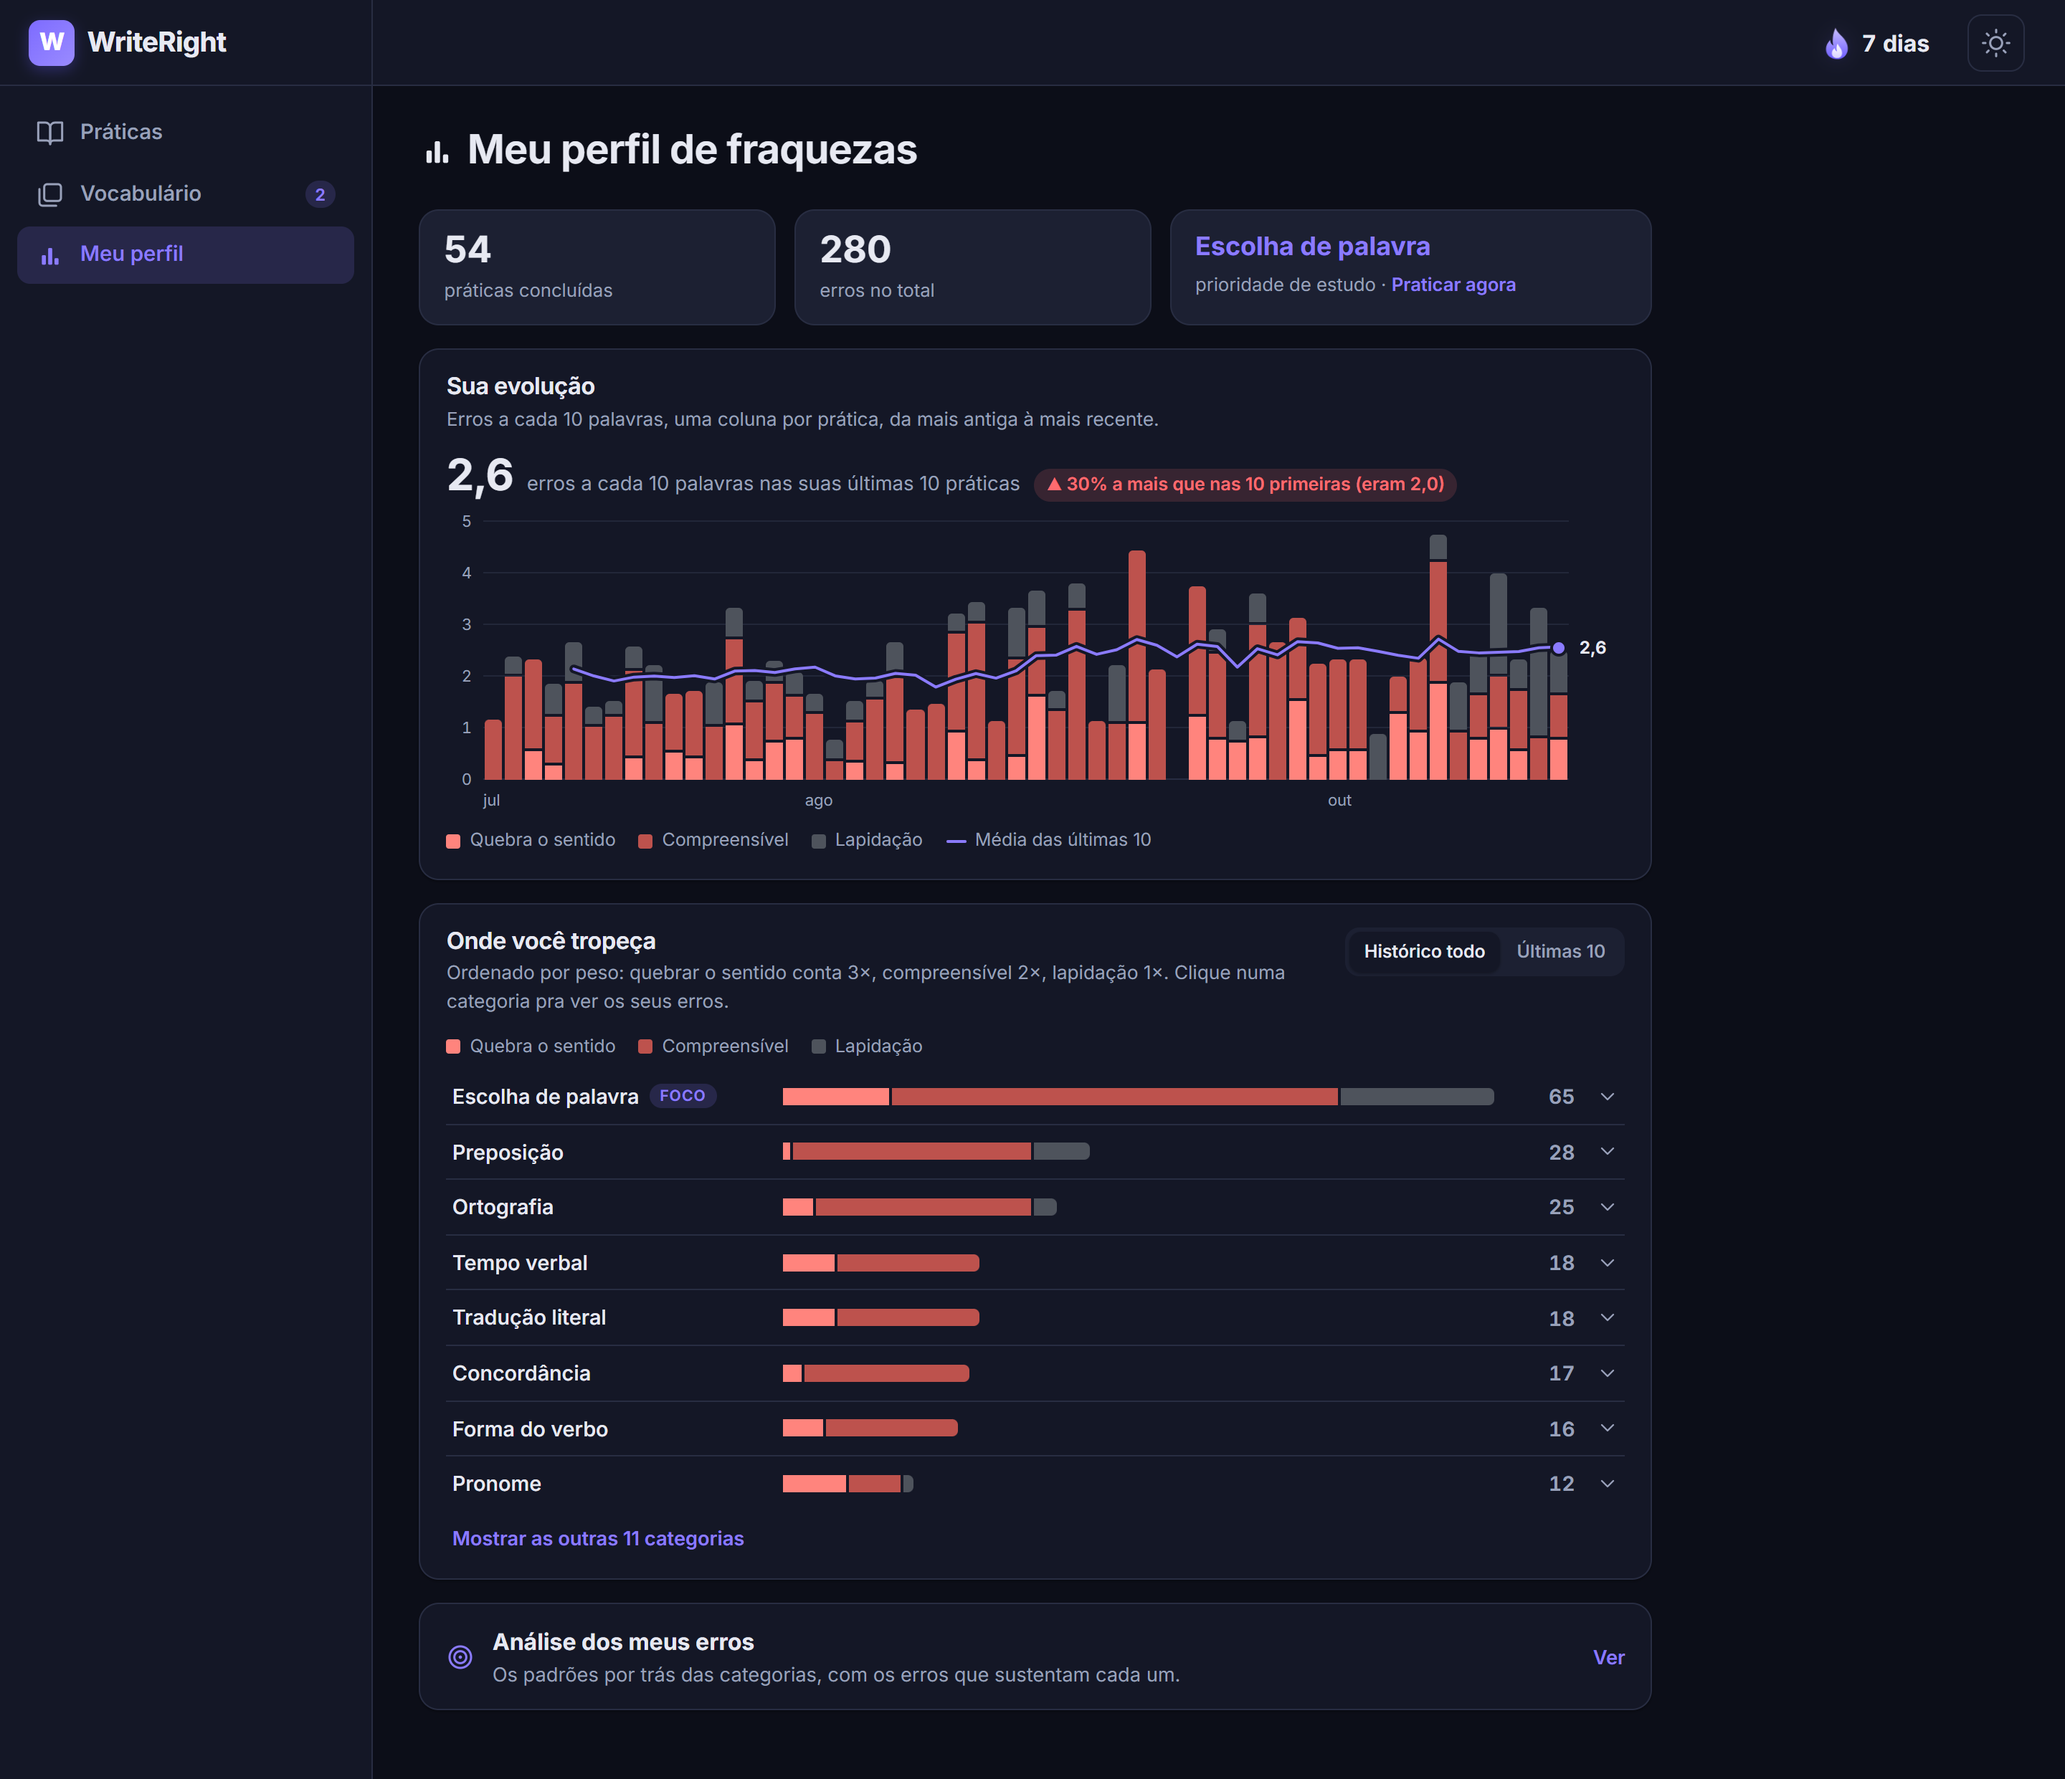
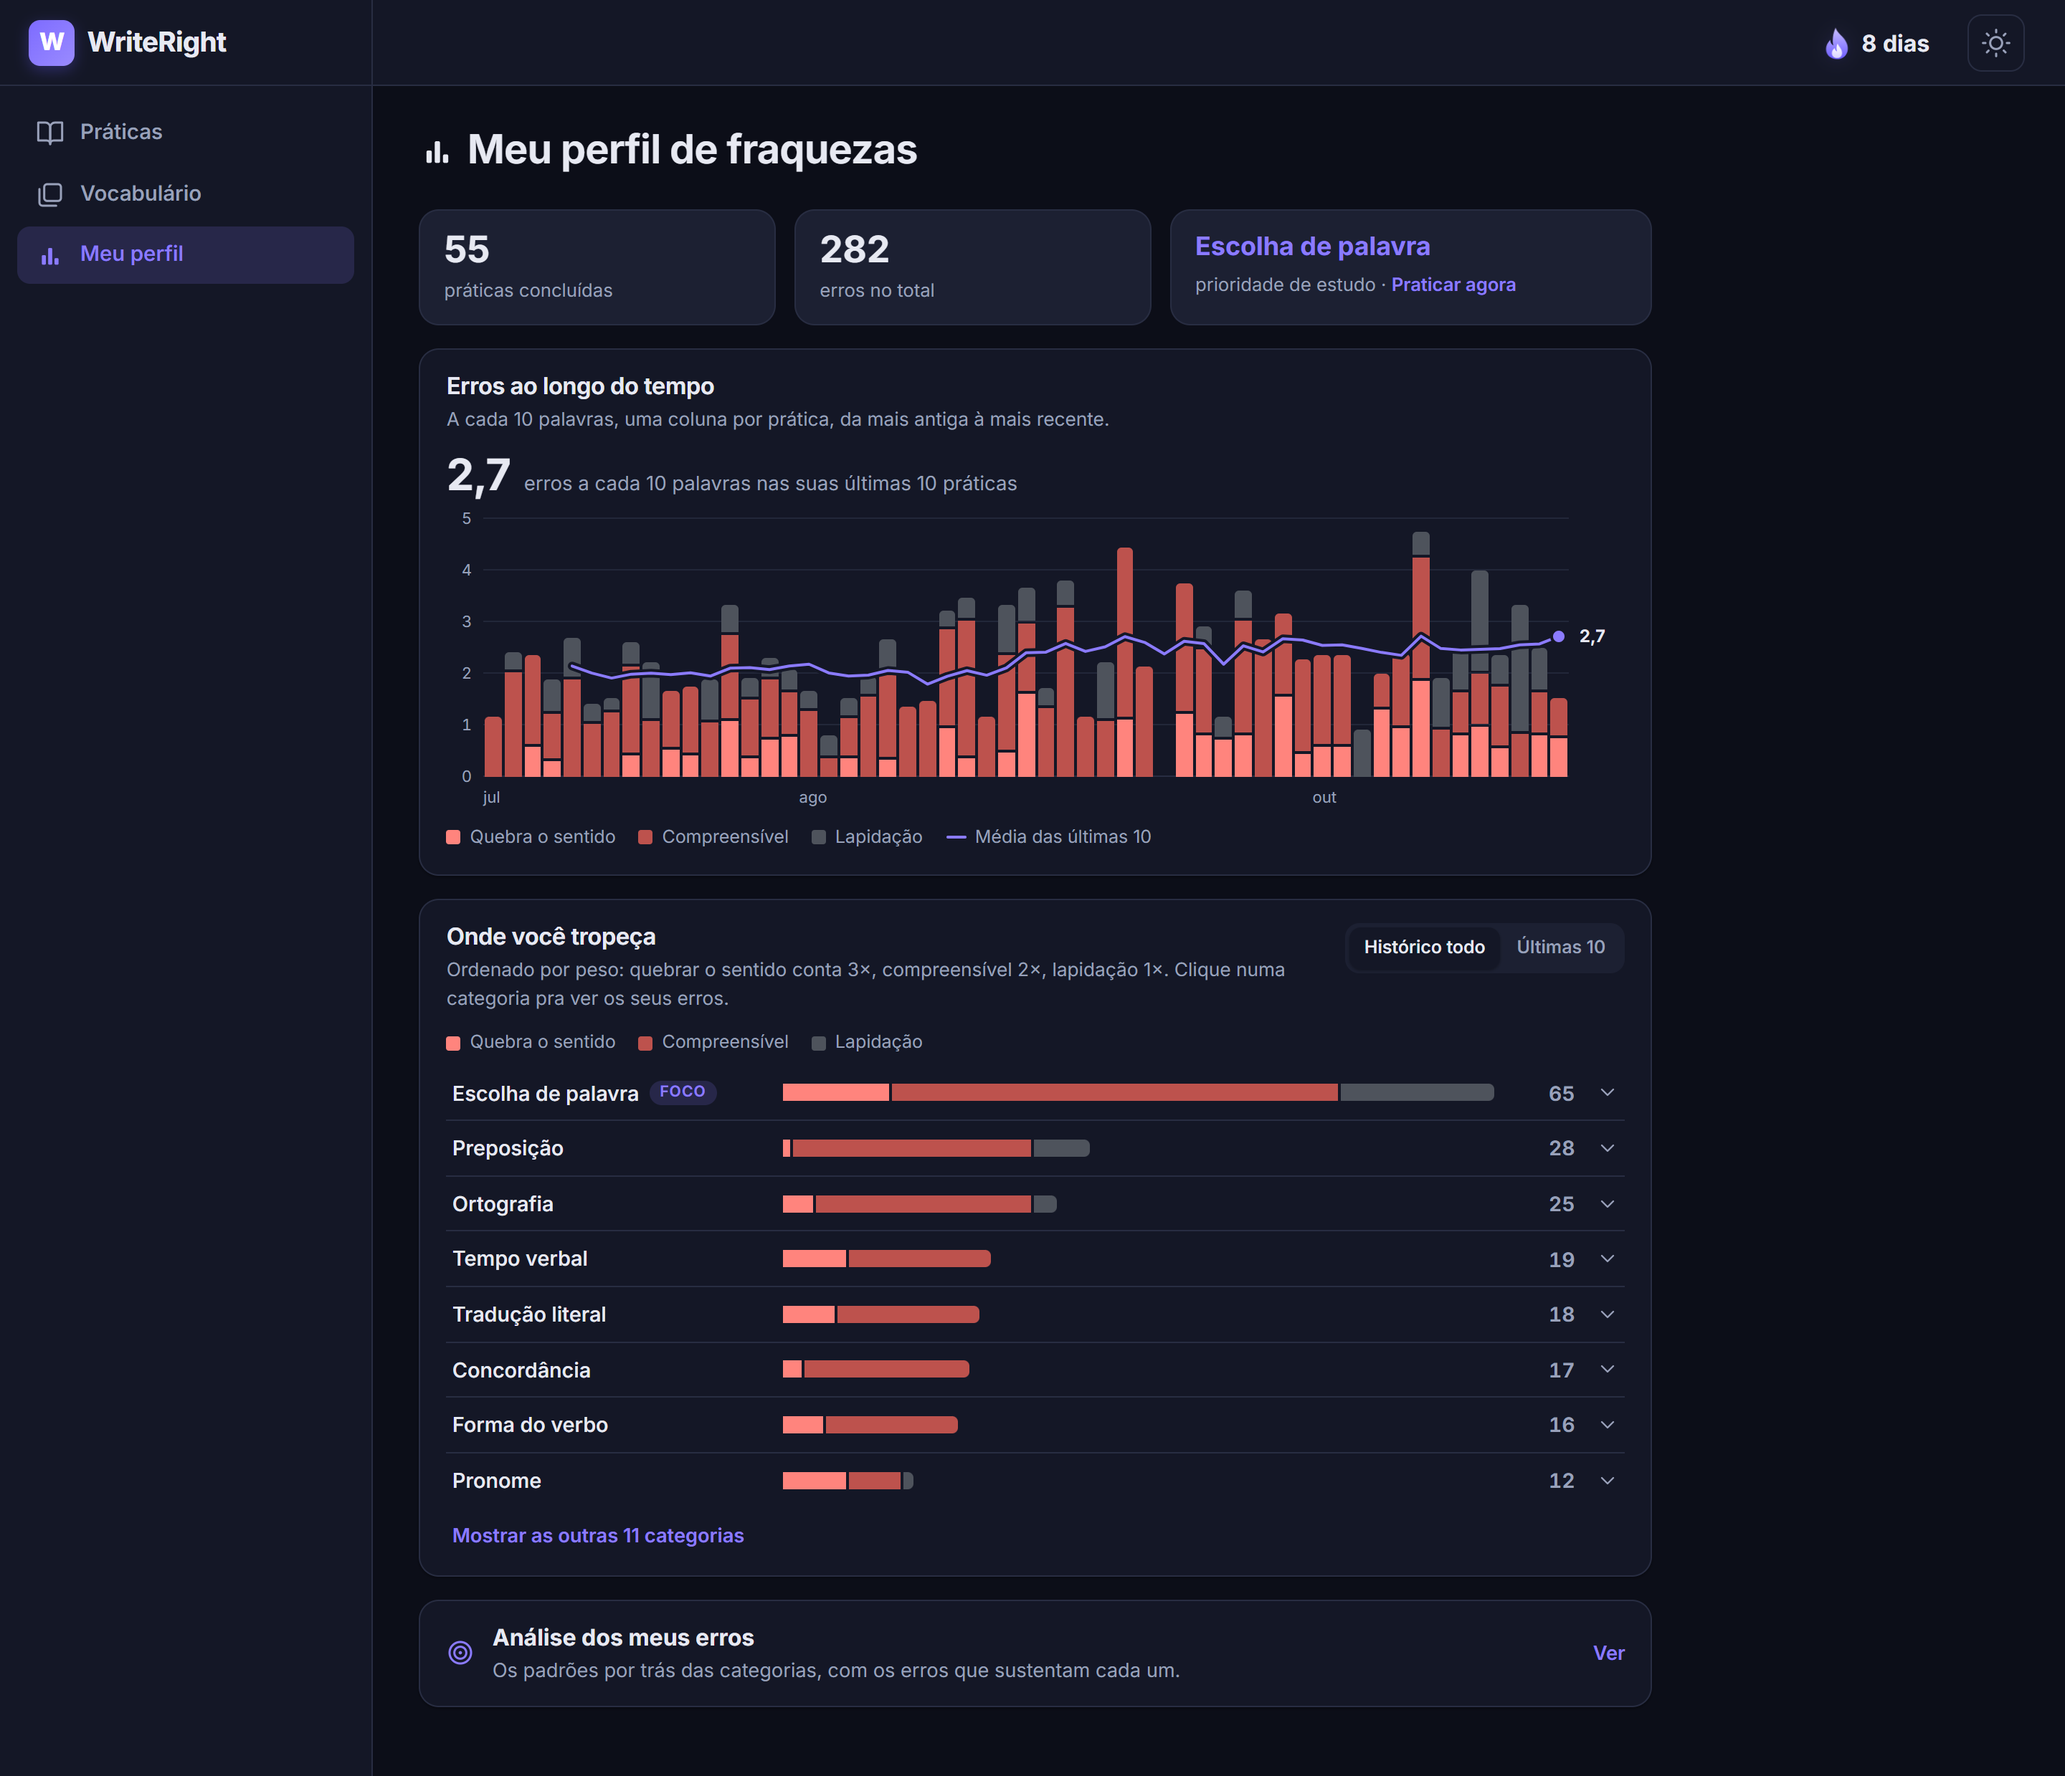
feat: profile shows errors per 10 words over time and one category list split by severity

diff --git a/WriteRight.Client/Components/EvolutionChart.razor.css b/WriteRight.Client/Components/EvolutionChart.razor.css
@@ -14,7 +14,7 @@
     color: var(--wr-text-muted);
 }
 
-/* ── Manchete: a taxa recente e como ela se compara ao começo ── */
+/* ── Manchete: a taxa das últimas práticas ── */
 .kpi {
     display: flex;
     align-items: baseline;
@@ -34,19 +34,6 @@
     font-size: 0.86rem;
     color: var(--wr-text-muted);
 }
-
-.delta {
-    display: inline-flex;
-    align-items: center;
-    font-size: 0.78rem;
-    font-weight: 600;
-    border-radius: 999px;
-    padding: 0.15rem 0.55rem;
-}
-
-.delta--bad  { background: var(--wr-danger-soft);  color: var(--wr-danger); }
-.delta--good { background: var(--wr-success-soft); color: var(--wr-success); }
-.delta--same { background: var(--wr-surface-2);    color: var(--wr-text-muted); }
 
 /* ── Gráfico ─────────────────────────────────────────────── */
 .evo {

diff --git a/WriteRight.Shared/Profile/ErrorRate.cs b/WriteRight.Shared/Profile/ErrorRate.cs
@@ -4,9 +4,6 @@ using System.Linq;
 
 namespace WriteRight.Shared.Profile;
 
-/// <summary>As primeiras práticas contra as últimas, na mesma régua (erros a cada 10 palavras).</summary>
-public sealed record RateComparison(double First, double Last);
-
 /// <summary>
 /// A régua do gráfico de evolução: erros a cada <see cref="PerWords"/> palavras.
 ///
@@ -14,12 +11,17 @@ public sealed record RateComparison(double First, double Last);
 /// os textos encolheram de ~25 pra ~16 palavras: a contagem por prática caiu de 4,9
 /// pra 4,2 enquanto a taxa por palavra subiu de 2,0 pra 2,6. Contando por prática, a
 /// tela mostrava melhora onde havia piora.
+///
+/// Não há comparação com um ponto do passado (já houve: "▲ 30% a mais que nas 10
+/// primeiras"). Contra as primeiras práticas, a referência ficava presa a outro nível e
+/// a outro corretor; contra as 10 anteriores, ~40 erros por janela faziam o selo trocar
+/// de cor por ruído. A tendência fica com a média móvel.
 /// </summary>
 public static class ErrorRate
 {
     public const int PerWords = 10;
 
-    /// <summary>Tamanho da média móvel e de cada ponta da comparação primeiras × últimas.</summary>
+    /// <summary>Tamanho da média móvel e da manchete ("nas suas últimas 10 práticas").</summary>
     public const int Window = 10;
 
     /// <summary>Com menos práticas que isso, a "média" seria só a própria prática.</summary>
@@ -55,16 +57,4 @@ public static class ErrorRate
                 ? null
                 : Of(points.Skip(Math.Max(0, i + 1 - Window)).Take(Math.Min(Window, i + 1))))
             .ToList();
-
-    /// <summary>
-    /// As primeiras <see cref="Window"/> práticas contra as últimas <see cref="Window"/>.
-    /// Null enquanto as duas pontas se sobrepõem: aí seria comparar a prática com ela mesma.
-    /// </summary>
-    public static RateComparison? FirstVersusLast(IReadOnlyList<PracticePoint> points)
-    {
-        if (points.Count < 2 * Window) return null;
-        var first = Of(points.Take(Window));
-        var last = Of(points.Skip(points.Count - Window));
-        return first is null || last is null ? null : new(first.Value, last.Value);
-    }
 }

diff --git a/WriteRight.Tests/Profile/ErrorRateTests.cs b/WriteRight.Tests/Profile/ErrorRateTests.cs
@@ -77,19 +77,4 @@ public class ErrorRateTests
         Assert.Equal(1.0, rolling[10]); // 2..11: a primeira saiu
         Assert.Equal(0.0, rolling[11]); // 3..12: as duas saíram
     }
-
-    // ── Primeiras × últimas ──────────────────────────────────────────────────
-
-    [Fact]
-    public void Overlapping_ends_are_not_compared() =>
-        Assert.Null(ErrorRate.FirstVersusLast(Series(2 * ErrorRate.Window - 1, _ => 1)));
-
-    [Fact]
-    public void Compares_the_first_window_with_the_last()
-    {
-        // As dez primeiras com 2 erros, as dez últimas com 3.
-        var comparison = ErrorRate.FirstVersusLast(Series(2 * ErrorRate.Window, i => i <= ErrorRate.Window ? 2 : 3));
-
-        Assert.Equal(new RateComparison(2.0, 3.0), comparison);
-    }
 }

diff --git a/README.md b/README.md
@@ -219,7 +219,7 @@ The suite covers the parts with real logic and real regression risk:
 - **Wire contract** — the JSON Claude returns deserializes into the right enums, using the exact same serializer options as production; every category round-trips as a string (the contract that keeps the DB, API and client aligned).
 - **Adaptive generation** — the prompt injects focus categories when there are weaknesses, and doesn't when there aren't.
 - **Persistence + aggregation** — correcting stores the attempt and its errors, and the profile aggregates by category ordered by severity-weighted score, tested against a **real in-memory SQLite** database (so the enum-as-string value converters run for real).
-- **The evolution chart's arithmetic** — errors per 10 words is total errors over total words, not an average of per-practice rates (an 8-word text can't outweigh a 36-word one); the rolling average only looks at the last 10 practices; and the first-vs-last comparison stays silent until the two ends stop overlapping.
+- **The evolution chart's arithmetic** — errors per 10 words is total errors over total words, not an average of per-practice rates (an 8-word text can't outweigh a 36-word one); and the rolling average only looks at the last 10 practices.
 - **Evidence grounding** — the analysis drops any pattern that cites error ids it was never sent or that falls under the evidence floor, and persists nothing when none survive. The window sizing (by error volume, not practice count) and the snapshotting of evidence — an analysis stays intact even after the practice it cited is deleted — are covered too.
 - **The deck** — mostly the failure paths, because they're the ones that quietly corrupt data: every rule of the gate (each one named after a real bad card), a correction that queues its cards in the same transaction, a failed card call that records its cost and stays pending, a recurring error that reschedules instead of duplicating (and writes no review row), a discarded card that's never resurrected, a card that outlives the practice that created it, and siblings from one sentence that never share a day. Plus the interval arithmetic, where a wrong sign breaks nothing visible — it just makes reviews arrive at the wrong time for months.
 - **The day streak** — days are counted on your clock, not UTC, and the day turns at 4am: a practice finished at 00:30 belongs to the evening it started in, or a late session would break the streak on a day you practiced.
